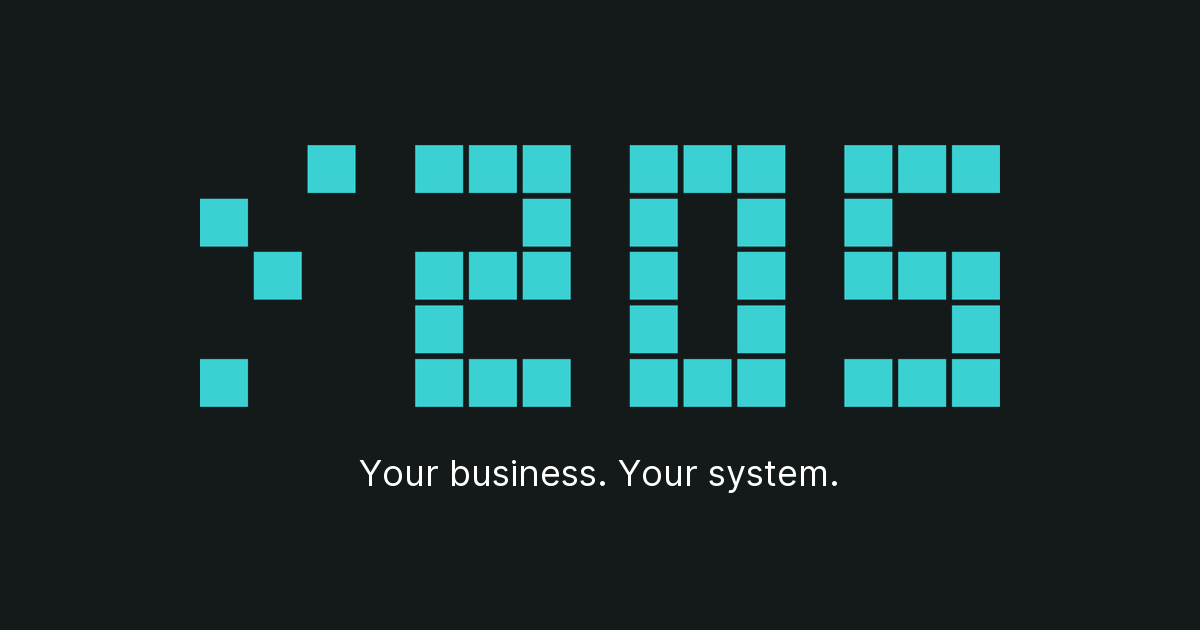
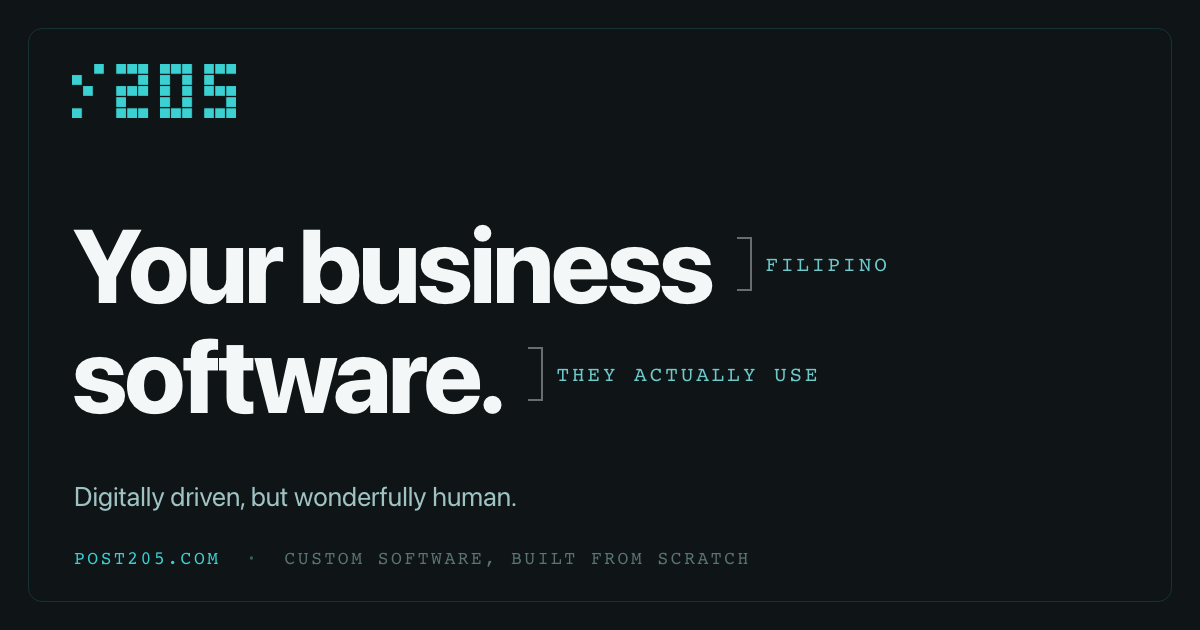
Homepage OG image + title/description aligned to the new positioning
New OG card (1200x630): teal 205 mark, the "Your business / software." hero
decoded with the calling-card brackets (FILIPINO / they actually use), brand
line, and post205.com. Title/description now lead with "custom software for
Filipino business owners" and how-you-work + ownership, replacing the old
"Your business. Your system." product list. og:image cache-busted (?v=2).

diff --git a/index.html b/index.html
@@ -3,18 +3,19 @@
 <head>
   <meta charset="UTF-8">
   <meta name="viewport" content="width=device-width, initial-scale=1.0">
-  <title>POST205: Your business. Your system.</title>
-  <meta name="description" content="Custom websites, web apps, and back-office systems built from scratch for Philippine businesses. Booking systems, firm portals, inventory platforms, and more. Since 2015.">
-  <meta property="og:title" content="POST205: Your business. Your system.">
-  <meta property="og:description" content="Custom websites, web apps, and back-office systems built from scratch for Philippine businesses. Booking systems, firm portals, inventory platforms, and more. Since 2015.">
-  <meta property="og:image" content="https://post205.com/images/og-image.png">
+  <title>POST205: Custom software for Filipino business owners</title>
+  <meta name="description" content="Custom software for Filipino business owners, built around how you actually work. Websites, inventory, and back-office systems, built from scratch since 2015. Your data and code stay yours.">
+  <meta property="og:title" content="POST205: Your business software.">
+  <meta property="og:description" content="Custom software for Filipino business owners, built around how you actually work. Built from scratch since 2015, and the data and code stay yours.">
+  <meta property="og:image" content="https://post205.com/images/og-image.png?v=2">
   <meta property="og:image:width" content="1200">
   <meta property="og:image:height" content="630">
   <meta property="og:url" content="https://post205.com/">
   <meta property="og:type" content="website">
   <meta name="twitter:card" content="summary_large_image">
-  <meta name="twitter:title" content="POST205: Your business. Your system.">
-  <meta name="twitter:description" content="Custom websites, web apps, and back-office systems built from scratch for Philippine businesses. Booking systems, firm portals, inventory platforms, and more. Since 2015.">
+  <meta name="twitter:title" content="POST205: Your business software.">
+  <meta name="twitter:description" content="Custom software for Filipino business owners, built around how you actually work. Built from scratch since 2015, and the data and code stay yours.">
+  <meta name="twitter:image" content="https://post205.com/images/og-image.png?v=2">
   <link rel="icon" type="image/svg+xml" href="/images/favicon.svg">
   <link rel="icon" type="image/png" sizes="32x32" href="/images/favicon-32.png">
   <link rel="icon" type="image/png" sizes="16x16" href="/images/favicon-16.png">
@@ -28,7 +29,7 @@
     "name": "POST205, Inc.",
     "url": "https://post205.com",
     "logo": "https://post205.com/images/logo.png",
-    "description": "Custom websites, web apps, and back-office systems built from scratch for Philippine businesses. Booking systems, firm portals, inventory platforms, and more. Since 2015.",
+    "description": "Custom software for Filipino business owners, built around how you actually work. Websites, inventory, and back-office systems, built from scratch since 2015. Your data and code stay yours.",
 
     "address": {
       "@type": "PostalAddress",